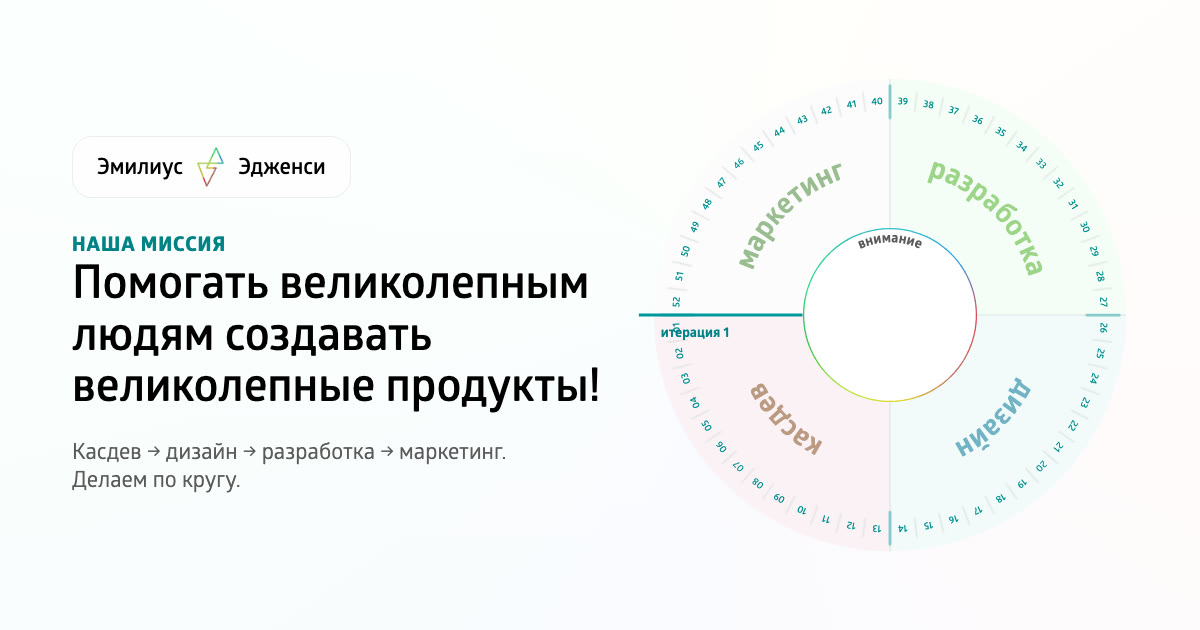
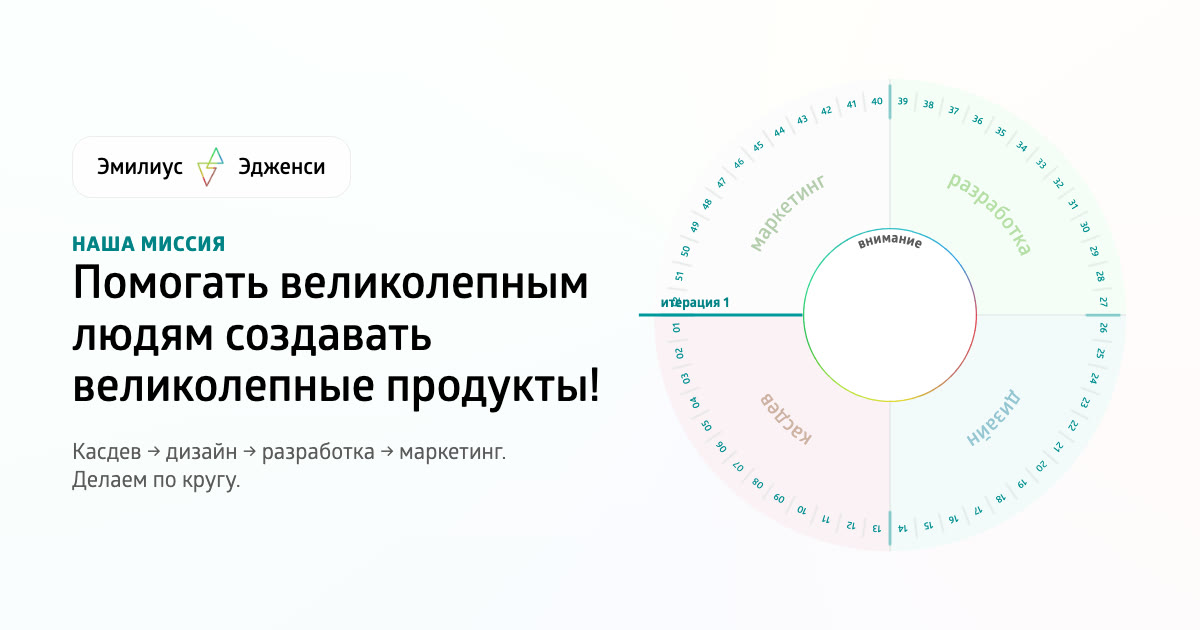
Колесо: названия этапов тише — акцент на вопросах в центре
Шрифт 25 → 18, жирный → полужирный, прозрачность 0,62 → 0,45 (тёмная 0,85 → 0,55),
текущий этап 1 → 0,75.

diff --git a/src/styles/tokens.css b/src/styles/tokens.css
@@ -53,7 +53,7 @@
   /* Колесо */
   --disc-stroke: #ffffff;
   --disc-op: 1; /* заливки сами едва заметные — без доп. прозрачности */
-  --label-op: 0.62;
+  --label-op: 0.45; /* названия этапов на ободе — фон, акцент на вопросах в центре */
   --tick-op: 0.75;
   --cross-op: 0.5;
   --center-fill: #ffffff;
@@ -103,7 +103,7 @@
     --ray-4: #8a2b3a;
     --disc-stroke: #2b3836;
     --disc-op: 0.35;
-    --label-op: 0.85;
+    --label-op: 0.55;
     --tick-op: 0.85;
     --cross-op: 0.55;
     --center-fill: #151c1b;
@@ -147,7 +147,7 @@
   --ray-4: #8a2b3a;
   --disc-stroke: #2b3836;
   --disc-op: 0.35;
-  --label-op: 0.85;
+  --label-op: 0.55;
   --tick-op: 0.85;
   --cross-op: 0.55;
   --center-fill: #151c1b;
